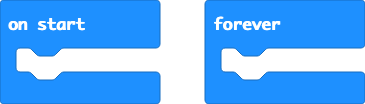
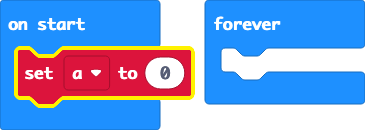
Update main.blocks, main.ts

diff --git a/main.ts b/main.ts
@@ -1,3 +1,4 @@
+let a = 0
 basic.forever(function () {
 	
 })
